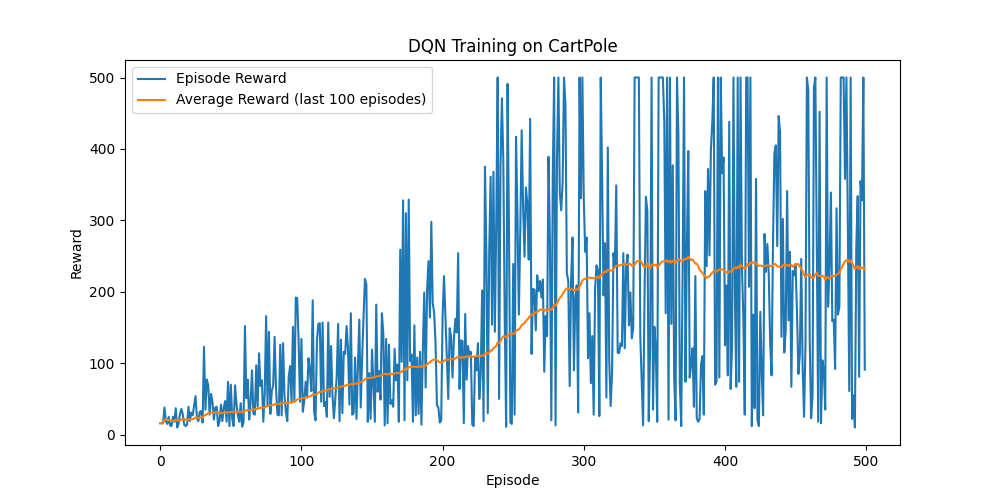
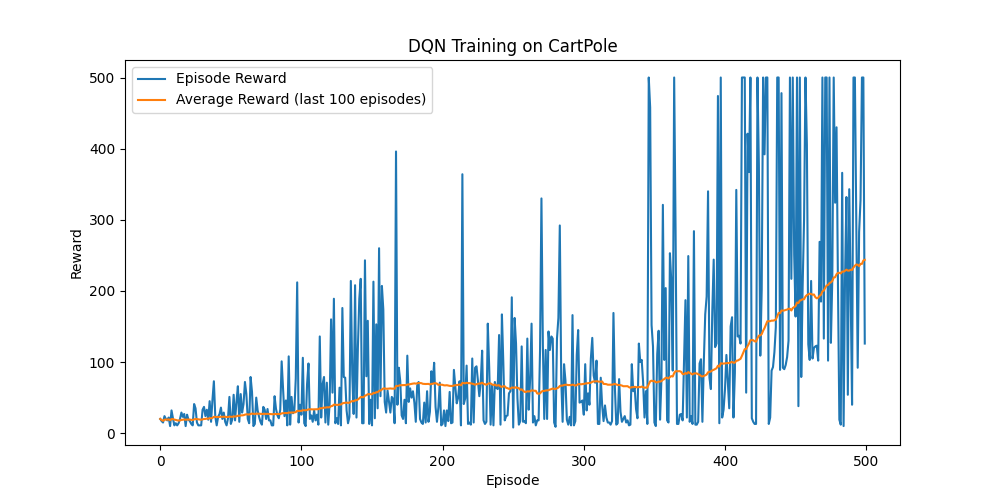
perf: 大幅增加网络规模以发挥GPU优势 - 网络从4层增加到6层，添加dropout - 隐藏层维度：256→512→512→256→256 - GPU批量大小从512增加到1024 - 参数量从197K增加到约1.3M(增加6.6倍) - 添加网络参数量显示 - 针对GPU大规模并行计算优化

diff --git a/CartPole_DQN/train.py b/CartPole_DQN/train.py
@@ -15,8 +15,8 @@ def parse_args():
     parser.add_argument("--num_episodes", type=int, default=500, help="训练的总episode数")
     parser.add_argument("--max_steps", type=int, default=500, help="每个episode的最大步数")
     parser.add_argument("--batch_size", type=int, default=256, help="批量大小")
-    parser.add_argument("--hidden_dim", type=int, default=256, help="隐藏层大小")
-    parser.add_argument("--gpu_batch_size", type=int, default=512, help="GPU训练时的批量大小")
+    parser.add_argument("--hidden_dim", type=int, default=512, help="隐藏层大小")
+    parser.add_argument("--gpu_batch_size", type=int, default=1024, help="GPU训练时的批量大小")
     parser.add_argument("--cpu_batch_size", type=int, default=64, help="CPU训练时的批量大小")
     parser.add_argument("--learning_rate", type=float, default=1e-3, help="学习率")
     parser.add_argument("--gamma", type=float, default=0.99, help="折扣因子")
@@ -318,9 +318,18 @@ if __name__ == "__main__":
     print("DQN训练配置信息:")
     print(f"环境: {env_name}")
     print(f"训练episodes: {num_episodes}")
+    print(f"批量大小: {actual_batch_size}")
+    print(f"隐藏层大小: {actual_hidden_dim}")
     print(f"GPU设置: {'启用' if use_gpu else '禁用'}")
     print(f"实际使用设备: {agent.device}")
     print(f"设备类型: {agent.device.type}")
+    
+    # 计算网络参数量
+    total_params = sum(p.numel() for p in agent.q_network.parameters())
+    trainable_params = sum(p.numel() for p in agent.q_network.parameters() if p.requires_grad)
+    print(f"网络总参数量: {total_params:,}")
+    print(f"可训练参数量: {trainable_params:,}")
+    
     if hasattr(torch.backends, 'mps'):
         print(f"MPS可用: {torch.backends.mps.is_available()}")
     print(f"CUDA可用: {torch.cuda.is_available()}")

diff --git a/CartPole_DQN/dqn_agent.py b/CartPole_DQN/dqn_agent.py
@@ -13,16 +13,26 @@ import argparse
 class QNetwork(nn.Module):
     def __init__(self, state_dim, action_dim, hidden_dim=256):
         super(QNetwork, self).__init__()
+        # 创建更深更宽的网络
         self.fc1 = nn.Linear(state_dim, hidden_dim)
-        self.fc2 = nn.Linear(hidden_dim, hidden_dim)
-        self.fc3 = nn.Linear(hidden_dim, hidden_dim)
-        self.fc4 = nn.Linear(hidden_dim, action_dim)
+        self.fc2 = nn.Linear(hidden_dim, hidden_dim * 2)  # 扩大到512
+        self.fc3 = nn.Linear(hidden_dim * 2, hidden_dim * 2)  # 512
+        self.fc4 = nn.Linear(hidden_dim * 2, hidden_dim)  # 收缩到256
+        self.fc5 = nn.Linear(hidden_dim, hidden_dim)  # 256
+        self.fc6 = nn.Linear(hidden_dim, action_dim)
+        self.dropout = nn.Dropout(0.1)  # 添加dropout
         
     def forward(self, x):
         x = F.relu(self.fc1(x))
+        x = self.dropout(x)
         x = F.relu(self.fc2(x))
+        x = self.dropout(x)
         x = F.relu(self.fc3(x))
-        return self.fc4(x)
+        x = self.dropout(x)
+        x = F.relu(self.fc4(x))
+        x = self.dropout(x)
+        x = F.relu(self.fc5(x))
+        return self.fc6(x)
 
 # 定义经验回放缓冲区
 class ReplayBuffer:
